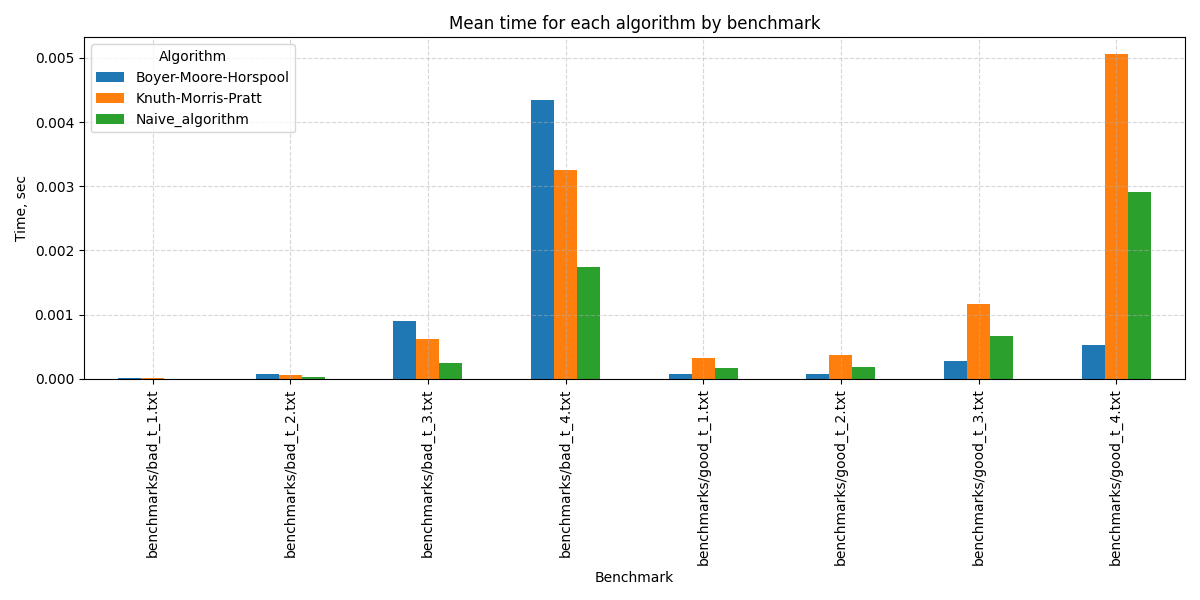
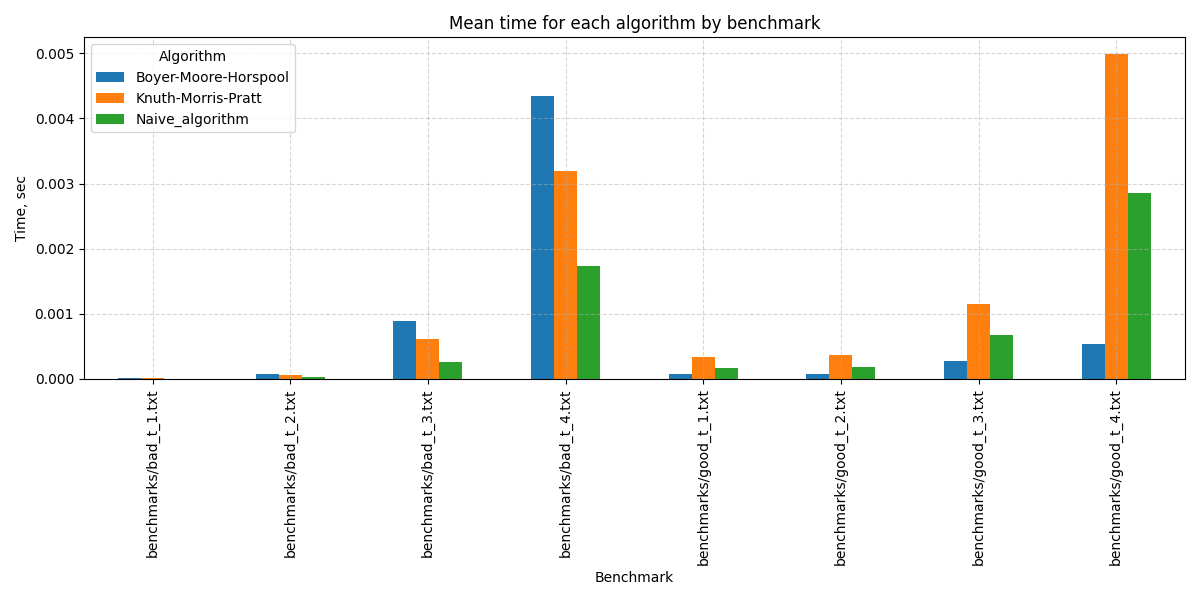
tried alternative way - no difference

diff --git a/main.py b/main.py
@@ -1,4 +1,3 @@
-from collections.abc import Callable
 from time import time
 from typing import Dict
 
@@ -6,52 +5,67 @@ import matplotlib.pyplot as plt
 import pandas as pd
 
 from algorithms import (read_file, naive_algorithm, Boyer_Moore_Horspool_algorithm, Knuth_Morris_Pratt_algorithm,
-                        get_counter)
+                        get_counter, make_none, make_bias_table, make_prefix)
 
 
-def run_one_benchmark(alg_func: Callable, alg_name: str, bench_pattern: str, bench_text: str, results: list) -> None:
+def run_one_benchmark(alg_func: tuple, alg_name: str, bench_pattern: str, bench_text: str, results: list,
+                      alternative: bool = False) -> None:
+
     print(f'Searching {bench_pattern} in {bench_text}...')
     substring = read_file(bench_pattern)
     text = read_file(bench_text)
 
     total_operations = 0
+    pre_operations = 0
     total_duration = 0
+    pre_duration = 0
     result = 0
+
+    preprocess = None
+    if alternative:
+        start = time()
+        preprocess = alg_func[1](substring)
+        end = time()
+        pre_duration = end - start
+        pre_operations = get_counter()
+
+
     for _ in range(100):
         start = time()
-        result = alg_func(substring, text)
+        result = alg_func[0](substring, text, preprocess)
         end = time()
         duration = end - start
         operations = get_counter()
         total_operations += operations
         total_duration += duration
 
-    results.append({'Algorithm': alg_name, 'Time': round(total_duration/100, 6), 'Operations': total_operations/100, 'Result': result,
+    results.append({'Algorithm': alg_name, 'Time': round(total_duration/100 + pre_duration, 6), 'Operations': total_operations/100 + pre_operations, 'Result': result,
                     'Benchmark_text': bench_text, 'Benchmark_pattern': bench_pattern})
 
 
-def run_all_benchmarks(algs: Dict, bad_benchs: Dict, good_benchs: Dict) -> None:
+def run_all_benchmarks(algs: Dict, bad_benchs: Dict, good_benchs: Dict, alternative: bool = False) -> None:
     start_total = time()
     results = []
     for alg_name, alg_func in algs.items():
         print(f'Using {alg_name}...')
         for bench_text, bench_pattern in bad_benchs.items():
-            run_one_benchmark(alg_func, alg_name, bench_pattern, bench_text, results)
+            run_one_benchmark(alg_func, alg_name, bench_pattern, bench_text, results, alternative)
         for bench_text, bench_pattern in good_benchs.items():
-            run_one_benchmark(alg_func, alg_name, bench_pattern, bench_text, results)
+            run_one_benchmark(alg_func, alg_name, bench_pattern, bench_text, results, alternative)
     end_total = time()
     print(f'Total time: {round(end_total - start_total, 6)} seconds')
 
     data = pd.DataFrame(results).sort_values(by=['Benchmark_text','Algorithm', 'Time'], axis=0)
     print(data)
-    data.to_csv('report.csv', index=False, encoding='utf-8')
+    report_name = 'report_alt.csv' if alternative else 'report.csv'
+    data.to_csv(report_name, index=False, encoding='utf-8')
 
-    visualize(data)
+    visualize(data, alternative)
 
-def visualize(data: pd.DataFrame) -> None:
+
+def visualize(data: pd.DataFrame, alternative: bool = False) -> None:
     pivot_time = data.pivot(index='Benchmark_text', columns='Algorithm', values='Time')
     pivot_ops = data.pivot(index='Benchmark_text', columns='Algorithm', values='Operations')
-
 
     pivot_time.plot(kind='bar', figsize=(12, 6))
     plt.title('Mean time for each algorithm by benchmark')
@@ -60,7 +74,8 @@ def visualize(data: pd.DataFrame) -> None:
     plt.tight_layout()
     plt.grid(True, linestyle='--', alpha=0.5)
     plt.legend(title='Algorithm')
-    plt.savefig('time_chart.png')
+    chart_name1 = 'time_chart_alt.png' if alternative else 'time_chart.png'
+    plt.savefig(chart_name1)
     plt.show()
 
     pivot_ops.plot(kind='bar', figsize=(12, 6))
@@ -70,18 +85,22 @@ def visualize(data: pd.DataFrame) -> None:
     plt.tight_layout()
     plt.grid(True, linestyle='--', alpha=0.5)
     plt.legend(title='Algorithm')
-    plt.savefig('operations_chart.png')
+    chart_name2 = 'operations_chart_alt.png' if alternative else 'operations_chart.png'
+    plt.savefig(chart_name2)
     plt.show()
 
 
 if __name__ == '__main__':
     algs = {
-        'Naive_algorithm': naive_algorithm,
-        'Boyer-Moore-Horspool': Boyer_Moore_Horspool_algorithm,
-        'Knuth-Morris-Pratt': Knuth_Morris_Pratt_algorithm
+        'Naive_algorithm': (naive_algorithm, make_none),
+        'Boyer-Moore-Horspool': (Boyer_Moore_Horspool_algorithm, make_bias_table),
+        'Knuth-Morris-Pratt': (Knuth_Morris_Pratt_algorithm, make_prefix)
     }
 
     bad_benchs = {f'benchmarks/bad_t_{i}.txt': f'benchmarks/bad_w_{i}.txt' for i in range(1, 5)}
     good_benchs = {f'benchmarks/good_t_{i}.txt': f'benchmarks/good_w_{i}.txt' for i in range(1, 5)}
 
-    run_all_benchmarks(algs, bad_benchs, good_benchs)
+    # Dev note: results showed no difference
+    alternative = False
+
+    run_all_benchmarks(algs, bad_benchs, good_benchs, alternative)

diff --git a/algorithms.py b/algorithms.py
@@ -26,7 +26,11 @@ def get_counter():
 # -------MAIN ALGORITHMS--------------------------------
 
 # Naive algorithm
-def naive_algorithm(substring: str, main_text: str) -> int:
+def make_none(substring: str) -> None:
+    return None
+
+
+def naive_algorithm(substring: str, main_text: str, temp: None = None) -> int:
     reset_counter()
     substr_len = len(substring)
     main_text_len = len(main_text)
@@ -54,13 +58,14 @@ def make_bias_table(substring: str) -> dict:
     return bias_table
 
 
-def Boyer_Moore_Horspool_algorithm(substring: str, main_text: str) -> int:
+def Boyer_Moore_Horspool_algorithm(substring: str, main_text: str, bias_table: dict | None = None) -> int:
     reset_counter()
     substr_len = len(substring)
     main_text_len = len(main_text)
     if substr_len == 0 or main_text_len == 0:
         return -1
-    bias_table = make_bias_table(substring)
+    if bias_table is None:
+        bias_table = make_bias_table(substring)
     index = 0
     while index + substr_len - 1 < main_text_len:
         flag = True
@@ -98,13 +103,14 @@ def make_prefix(substring: str) -> list:
     return prefix_arr
 
 
-def Knuth_Morris_Pratt_algorithm(substring: str, main_text: str) -> int:
+def Knuth_Morris_Pratt_algorithm(substring: str, main_text: str, prefix_arr: list | None = None) -> int:
     reset_counter()
     substr_len = len(substring)
     main_text_len = len(main_text)
     if substr_len == 0 or main_text_len == 0:
         return -1
-    prefix_arr = make_prefix(substring)
+    if prefix_arr is None:
+        prefix_arr = make_prefix(substring)
     substr_index = 0
     for index in range(main_text_len):
         flag = True
